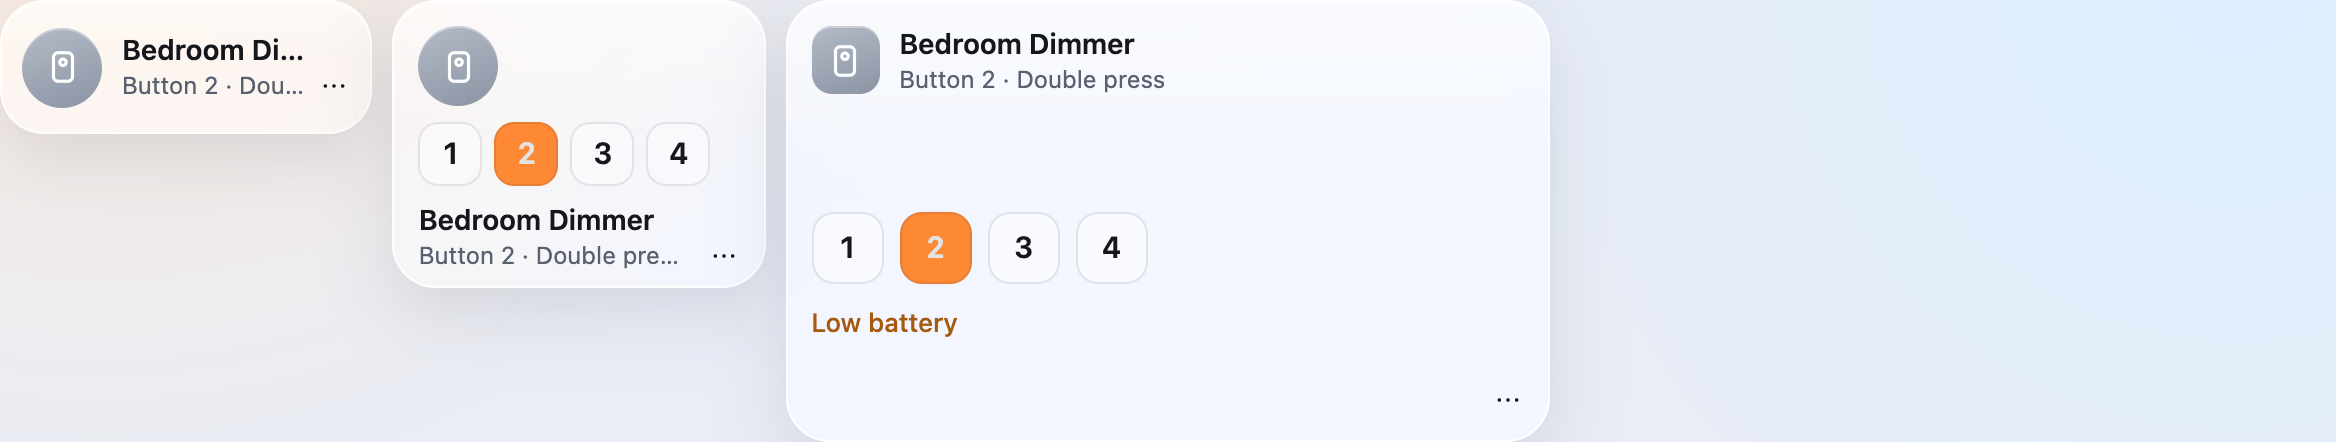
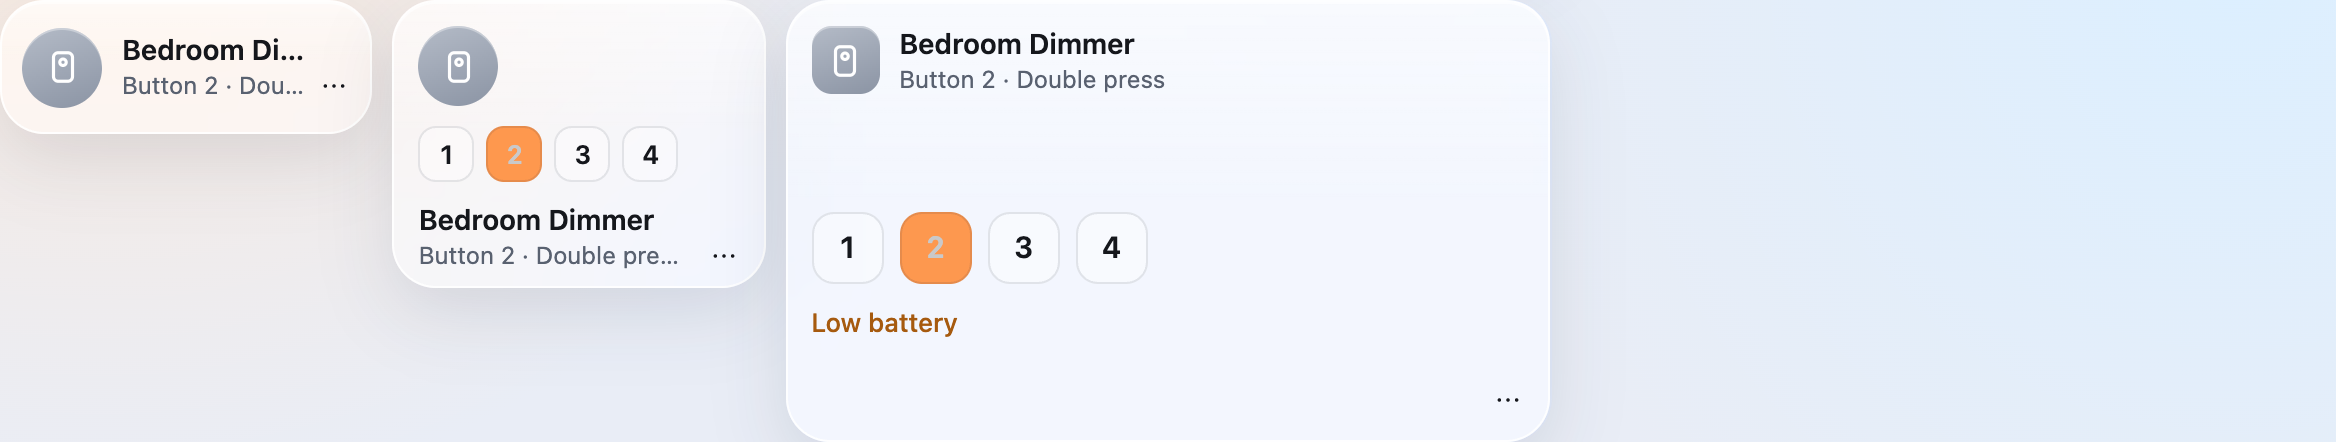
Review fixes: bounded re-reads, phone tabs that scroll, a remote's middle row
The Hue and DIRIGERA pages read the accessories again at most five times for a
device the plugin has not published, instead of on every poll when one never
comes (an environment sensor that measures nothing, a failed add). On a phone
the plugin tabs share the width and scroll sideways when a translation is too
long, rather than be cut. A tall remote tile shows its keys in a middle row of
its own, hidden while the wall is edited, sized to fit above the name, and
only for up to four buttons; more keep the count.

Changed region(s): [[0.1875, 0.2647, 0.3125, 0.4412], [0.375, 0.4706, 0.4375, 0.6471]]

diff --git a/Sources/HomeswiftUI/WebAssets.swift b/Sources/HomeswiftUI/WebAssets.swift
@@ -18445,9 +18445,9 @@ button.busy::after {
   background: var(--material-thin); border: 1px solid var(--line); font-weight: 600; font-variant-numeric: tabular-nums;
   transition: background-color 600ms var(--ease-out), color 600ms var(--ease-out), transform 300ms var(--ease-out);
 }
-/* On a medium tile the keys sit between its icon and its name, above the tile's tap target like its other lines. */
-.widget-summary > .remote-key-row { position: relative; z-index: 1; pointer-events: none; gap: 6px; }
-.widget-summary > .remote-key-row .remote-key { min-width: 32px; height: 32px; border-radius: 10px; }
+/* On a tall tile the keys sit between its icon and its name (widgets.js `middle`). */
+.w-middle .remote-key-row { gap: 6px; flex-wrap: nowrap; }
+.w-middle .remote-key { min-width: 28px; height: 28px; padding: 0 8px; border-radius: 9px; font-size: .8125rem; }
 .remote-key.pressed { background: var(--accent); color: var(--accent-text); transform: scale(0.94); transition-duration: 60ms; }
 .widget .tile.pressed { transform: scale(0.94); transition: transform 60ms var(--ease-out); }
 @media (prefers-reduced-motion: reduce) { .remote-key.pressed, .widget .tile.pressed { transform: none; } }
@@ -18997,6 +18997,8 @@ input[type=search]::-webkit-search-decoration { -webkit-appearance: none; }
 .widget .w-hit:hover, .widget .w-hit:active:not(:disabled) { transform: none; }
 .w-hit:focus-visible { outline: 2px solid var(--accent); outline-offset: -2px; }
 .w-top, .w-bottom { position: relative; z-index: 1; display: flex; gap: 8px; min-width: 0; pointer-events: none; }
+/* A tall tile's middle line (a remote's keys), above the tap target like the others and shown only by it. */
+.w-middle { position: relative; z-index: 1; flex: none; min-width: 0; padding: 2px 0; overflow: hidden; pointer-events: none; }
 .w-top { align-items: flex-start; justify-content: space-between; }
 .w-bottom { align-items: flex-end; }
 .w-bottom .menu-button { pointer-events: auto; margin: 0 -6px -6px 0; flex: none; }
@@ -21174,7 +21176,7 @@ select option:disabled { color: var(--muted); }
 .wall.editing > .widget.size-small .edit-bar { bottom: 3px; padding: 2px; }
 .wall.editing > .widget.size-small .edit-bar button { height: 22px; }
 .wall.editing > .widget.size-small .resize-handle { bottom: 3px; }
-.wall.editing > .widget-summary > .w-bottom { visibility: hidden; }
+.wall.editing > .widget-summary > .w-bottom, .wall.editing > .widget-summary > .w-middle { visibility: hidden; }
 .wall.editing > .widget-summary > .w-top { position: absolute; left: 12px; right: 12px; top: 50%; transform: translateY(-50%); }
 .wall.editing > .widget.size-small > .w-top { visibility: hidden; }
 .wall.editing > .widget:not(.widget-summary) > .w-head { visibility: hidden; }
@@ -21286,10 +21288,12 @@ select option:disabled { color: var(--muted); }
    its address, scene tiles painted with their palette or a picture, the transition's speed scale and the save bar.
    plugin.js has their pieces (tabs, bridgePairing, scenePictures, textStyle, speedScale). */
 .main-tabs { margin: 18px 0 14px; }
-/* On a phone the tabs share the width, so four of them fit; a long name ends in an ellipsis. */
+/* On a phone the tabs share the width, so four of them fit; longer names (a translation) scroll the bar sideways
+   rather than be cut. */
 @media (max-width: 600px) {
-  .main-tabs { display: flex; width: 100%; }
-  .main-tabs > button { flex: 1 1 0; min-width: 0; padding: 5px 6px; justify-content: center; gap: 5px; overflow: hidden; text-overflow: ellipsis; }
+  .main-tabs { display: flex; width: 100%; overflow-x: auto; scrollbar-width: none; }
+  .main-tabs::-webkit-scrollbar { display: none; }
+  .main-tabs > button { flex: 1 0 auto; padding: 5px 8px; justify-content: center; gap: 5px; }
 }
 .tab-pane { animation: fade var(--normal) var(--ease-out); }
 
@@ -23270,8 +23274,9 @@ self.addEventListener("notificationclick", (event) => {
           if (isOn(low)) return [t("Low battery"), "warn"];
           return [buttons.length > 1 ? t("Press a button to see it here") : t("Press it to see it here")];
         },
-        // A tall tile shows the keys between its icon and its name, in place of the count they make plain.
-        middle: size === "small" ? el("div", { class: "remote-key-row", "aria-hidden": "true" }, keys) : null,
+        // A tall tile shows the keys between its icon and its name, in place of the count they make plain; more than
+        // fit on one line keep the count.
+        middle: size === "small" && buttons.length <= 4 ? el("div", { class: "remote-key-row", "aria-hidden": "true" }, keys) : null,
         body: size === "small" ? [] : [el("div", { class: "remote-keys" }, el("div", { class: "remote-key-row", "aria-hidden": "true" }, keys), battery)],
       };
     },
@@ -23598,7 +23603,7 @@ self.addEventListener("notificationclick", (event) => {
         hit.addEventListener("touchmove", (event) => { if (armed) event.preventDefault(); }, { passive: false });
       }
       const middle = size === "medium" ? built.middle : null;
-      node.append(shade ?? "", hit, el("div", { class: "w-top" }, glyph, hero), middle ?? "", el("div", { class: "w-bottom" }, who, menu));
+      node.append(shade ?? "", hit, el("div", { class: "w-top" }, glyph, hero), middle ? el("div", { class: "w-middle" }, middle) : "", el("div", { class: "w-bottom" }, who, menu));
       ctx.watch(() => {
         const on = built.on ? built.on() : false;
         node.classList.toggle("on", on);

diff --git a/Sources/HomeswiftUI/Web/style.css b/Sources/HomeswiftUI/Web/style.css
@@ -235,9 +235,9 @@ button.busy::after {
   background: var(--material-thin); border: 1px solid var(--line); font-weight: 600; font-variant-numeric: tabular-nums;
   transition: background-color 600ms var(--ease-out), color 600ms var(--ease-out), transform 300ms var(--ease-out);
 }
-/* On a medium tile the keys sit between its icon and its name, above the tile's tap target like its other lines. */
-.widget-summary > .remote-key-row { position: relative; z-index: 1; pointer-events: none; gap: 6px; }
-.widget-summary > .remote-key-row .remote-key { min-width: 32px; height: 32px; border-radius: 10px; }
+/* On a tall tile the keys sit between its icon and its name (widgets.js `middle`). */
+.w-middle .remote-key-row { gap: 6px; flex-wrap: nowrap; }
+.w-middle .remote-key { min-width: 28px; height: 28px; padding: 0 8px; border-radius: 9px; font-size: .8125rem; }
 .remote-key.pressed { background: var(--accent); color: var(--accent-text); transform: scale(0.94); transition-duration: 60ms; }
 .widget .tile.pressed { transform: scale(0.94); transition: transform 60ms var(--ease-out); }
 @media (prefers-reduced-motion: reduce) { .remote-key.pressed, .widget .tile.pressed { transform: none; } }
@@ -787,6 +787,8 @@ input[type=search]::-webkit-search-decoration { -webkit-appearance: none; }
 .widget .w-hit:hover, .widget .w-hit:active:not(:disabled) { transform: none; }
 .w-hit:focus-visible { outline: 2px solid var(--accent); outline-offset: -2px; }
 .w-top, .w-bottom { position: relative; z-index: 1; display: flex; gap: 8px; min-width: 0; pointer-events: none; }
+/* A tall tile's middle line (a remote's keys), above the tap target like the others and shown only by it. */
+.w-middle { position: relative; z-index: 1; flex: none; min-width: 0; padding: 2px 0; overflow: hidden; pointer-events: none; }
 .w-top { align-items: flex-start; justify-content: space-between; }
 .w-bottom { align-items: flex-end; }
 .w-bottom .menu-button { pointer-events: auto; margin: 0 -6px -6px 0; flex: none; }
@@ -2964,7 +2966,7 @@ select option:disabled { color: var(--muted); }
 .wall.editing > .widget.size-small .edit-bar { bottom: 3px; padding: 2px; }
 .wall.editing > .widget.size-small .edit-bar button { height: 22px; }
 .wall.editing > .widget.size-small .resize-handle { bottom: 3px; }
-.wall.editing > .widget-summary > .w-bottom { visibility: hidden; }
+.wall.editing > .widget-summary > .w-bottom, .wall.editing > .widget-summary > .w-middle { visibility: hidden; }
 .wall.editing > .widget-summary > .w-top { position: absolute; left: 12px; right: 12px; top: 50%; transform: translateY(-50%); }
 .wall.editing > .widget.size-small > .w-top { visibility: hidden; }
 .wall.editing > .widget:not(.widget-summary) > .w-head { visibility: hidden; }
@@ -3076,10 +3078,12 @@ select option:disabled { color: var(--muted); }
    its address, scene tiles painted with their palette or a picture, the transition's speed scale and the save bar.
    plugin.js has their pieces (tabs, bridgePairing, scenePictures, textStyle, speedScale). */
 .main-tabs { margin: 18px 0 14px; }
-/* On a phone the tabs share the width, so four of them fit; a long name ends in an ellipsis. */
+/* On a phone the tabs share the width, so four of them fit; longer names (a translation) scroll the bar sideways
+   rather than be cut. */
 @media (max-width: 600px) {
-  .main-tabs { display: flex; width: 100%; }
-  .main-tabs > button { flex: 1 1 0; min-width: 0; padding: 5px 6px; justify-content: center; gap: 5px; overflow: hidden; text-overflow: ellipsis; }
+  .main-tabs { display: flex; width: 100%; overflow-x: auto; scrollbar-width: none; }
+  .main-tabs::-webkit-scrollbar { display: none; }
+  .main-tabs > button { flex: 1 0 auto; padding: 5px 8px; justify-content: center; gap: 5px; }
 }
 .tab-pane { animation: fade var(--normal) var(--ease-out); }
 

diff --git a/site/design/runtime/style.css b/site/design/runtime/style.css
@@ -235,9 +235,9 @@ button.busy::after {
   background: var(--material-thin); border: 1px solid var(--line); font-weight: 600; font-variant-numeric: tabular-nums;
   transition: background-color 600ms var(--ease-out), color 600ms var(--ease-out), transform 300ms var(--ease-out);
 }
-/* On a medium tile the keys sit between its icon and its name, above the tile's tap target like its other lines. */
-.widget-summary > .remote-key-row { position: relative; z-index: 1; pointer-events: none; gap: 6px; }
-.widget-summary > .remote-key-row .remote-key { min-width: 32px; height: 32px; border-radius: 10px; }
+/* On a tall tile the keys sit between its icon and its name (widgets.js `middle`). */
+.w-middle .remote-key-row { gap: 6px; flex-wrap: nowrap; }
+.w-middle .remote-key { min-width: 28px; height: 28px; padding: 0 8px; border-radius: 9px; font-size: .8125rem; }
 .remote-key.pressed { background: var(--accent); color: var(--accent-text); transform: scale(0.94); transition-duration: 60ms; }
 .widget .tile.pressed { transform: scale(0.94); transition: transform 60ms var(--ease-out); }
 @media (prefers-reduced-motion: reduce) { .remote-key.pressed, .widget .tile.pressed { transform: none; } }
@@ -787,6 +787,8 @@ input[type=search]::-webkit-search-decoration { -webkit-appearance: none; }
 .widget .w-hit:hover, .widget .w-hit:active:not(:disabled) { transform: none; }
 .w-hit:focus-visible { outline: 2px solid var(--accent); outline-offset: -2px; }
 .w-top, .w-bottom { position: relative; z-index: 1; display: flex; gap: 8px; min-width: 0; pointer-events: none; }
+/* A tall tile's middle line (a remote's keys), above the tap target like the others and shown only by it. */
+.w-middle { position: relative; z-index: 1; flex: none; min-width: 0; padding: 2px 0; overflow: hidden; pointer-events: none; }
 .w-top { align-items: flex-start; justify-content: space-between; }
 .w-bottom { align-items: flex-end; }
 .w-bottom .menu-button { pointer-events: auto; margin: 0 -6px -6px 0; flex: none; }
@@ -2964,7 +2966,7 @@ select option:disabled { color: var(--muted); }
 .wall.editing > .widget.size-small .edit-bar { bottom: 3px; padding: 2px; }
 .wall.editing > .widget.size-small .edit-bar button { height: 22px; }
 .wall.editing > .widget.size-small .resize-handle { bottom: 3px; }
-.wall.editing > .widget-summary > .w-bottom { visibility: hidden; }
+.wall.editing > .widget-summary > .w-bottom, .wall.editing > .widget-summary > .w-middle { visibility: hidden; }
 .wall.editing > .widget-summary > .w-top { position: absolute; left: 12px; right: 12px; top: 50%; transform: translateY(-50%); }
 .wall.editing > .widget.size-small > .w-top { visibility: hidden; }
 .wall.editing > .widget:not(.widget-summary) > .w-head { visibility: hidden; }
@@ -3076,10 +3078,12 @@ select option:disabled { color: var(--muted); }
    its address, scene tiles painted with their palette or a picture, the transition's speed scale and the save bar.
    plugin.js has their pieces (tabs, bridgePairing, scenePictures, textStyle, speedScale). */
 .main-tabs { margin: 18px 0 14px; }
-/* On a phone the tabs share the width, so four of them fit; a long name ends in an ellipsis. */
+/* On a phone the tabs share the width, so four of them fit; longer names (a translation) scroll the bar sideways
+   rather than be cut. */
 @media (max-width: 600px) {
-  .main-tabs { display: flex; width: 100%; }
-  .main-tabs > button { flex: 1 1 0; min-width: 0; padding: 5px 6px; justify-content: center; gap: 5px; overflow: hidden; text-overflow: ellipsis; }
+  .main-tabs { display: flex; width: 100%; overflow-x: auto; scrollbar-width: none; }
+  .main-tabs::-webkit-scrollbar { display: none; }
+  .main-tabs > button { flex: 1 0 auto; padding: 5px 8px; justify-content: center; gap: 5px; }
 }
 .tab-pane { animation: fade var(--normal) var(--ease-out); }
 

diff --git a/Plugins/PhilipsHue/Sources/WebFiles.swift b/Plugins/PhilipsHue/Sources/WebFiles.swift
@@ -96,19 +96,22 @@ h2 { margin: 0 0 10px; }
   let accessories = [];
   let sensorAccessories = [];
   let shapeKey = "";
+  // Reads made for a light or sensor not yet published: a few, since one the plugin cannot add would never come.
+  let missingReads = 0;
   async function loadAccessories() {
     const all = (await homeswift.api("/api/accessories")).filter((accessory) => accessory.platform === "PhilipsHue" && accessory.platformName === homeswift.name);
     accessories = all.filter((accessory) => !accessory.id.startsWith("PhilipsHue:scenes:") && !accessory.id.startsWith("PhilipsHue:device:"));
     sensorAccessories = all.filter((accessory) => accessory.id.startsWith("PhilipsHue:device:"));
   }
 
-  /// Reads the accessories again when the lights or sensors the Home app has changed, or while fewer are published
-  /// than the bridge lists (the page opened before the plugin had added them all).
+  /// Reads the accessories again when the lights or sensors the Home app has changed, or a few times while fewer are
+  /// published than the bridge lists (the page opened before the plugin had added them all).
   async function loadIfChanged() {
     const shown = (list) => list.filter((item) => !item.hidden);
     const key = [...shown(lights), ...shown(sensors)].map((item) => item.id).sort().join(",");
     const missing = accessories.length < shown(lights).length || (status.sensorsOn !== false && sensorAccessories.length < shown(sensors).length);
-    if (key === shapeKey && !missing) return;
+    if (key !== shapeKey) missingReads = 0;
+    else if (!missing || missingReads++ >= 5) return;
     shapeKey = key;
     await loadAccessories().catch(() => {});
   }

diff --git a/Plugins/PhilipsHue/Web/app.js b/Plugins/PhilipsHue/Web/app.js
@@ -54,19 +54,22 @@
   let accessories = [];
   let sensorAccessories = [];
   let shapeKey = "";
+  // Reads made for a light or sensor not yet published: a few, since one the plugin cannot add would never come.
+  let missingReads = 0;
   async function loadAccessories() {
     const all = (await homeswift.api("/api/accessories")).filter((accessory) => accessory.platform === "PhilipsHue" && accessory.platformName === homeswift.name);
     accessories = all.filter((accessory) => !accessory.id.startsWith("PhilipsHue:scenes:") && !accessory.id.startsWith("PhilipsHue:device:"));
     sensorAccessories = all.filter((accessory) => accessory.id.startsWith("PhilipsHue:device:"));
   }
 
-  /// Reads the accessories again when the lights or sensors the Home app has changed, or while fewer are published
-  /// than the bridge lists (the page opened before the plugin had added them all).
+  /// Reads the accessories again when the lights or sensors the Home app has changed, or a few times while fewer are
+  /// published than the bridge lists (the page opened before the plugin had added them all).
   async function loadIfChanged() {
     const shown = (list) => list.filter((item) => !item.hidden);
     const key = [...shown(lights), ...shown(sensors)].map((item) => item.id).sort().join(",");
     const missing = accessories.length < shown(lights).length || (status.sensorsOn !== false && sensorAccessories.length < shown(sensors).length);
-    if (key === shapeKey && !missing) return;
+    if (key !== shapeKey) missingReads = 0;
+    else if (!missing || missingReads++ >= 5) return;
     shapeKey = key;
     await loadAccessories().catch(() => {});
   }

diff --git a/Plugins/Dirigera/Sources/WebFiles.swift b/Plugins/Dirigera/Sources/WebFiles.swift
@@ -117,6 +117,8 @@ h2 { margin: 0 0 10px; }
   /// The plugin's accessories (not its scene switches), read again when the set of devices changes.
   let accessories = [];
   let shapeKey = "";
+  // Reads made for a group not yet published: a few, since a group the plugin cannot add would never come.
+  let missingReads = 0;
   async function loadAccessories() {
     const all = await homeswift.api("/api/accessories");
     accessories = all.filter((accessory) => accessory.platform === "Dirigera" && accessory.platformName === homeswift.name && !accessory.id.startsWith("Dirigera:scenes:"));
@@ -156,11 +158,12 @@ h2 { margin: 0 0 10px; }
     const paired = hubs.some((hub) => hub.paired);
     deviceFinder.show(paired && accessories.length > 0);
     if (!paired) return empty(t("Pair a hub to see its devices."));
-    // Read again when the devices change, or while fewer accessories are published than the hub lists groups (the page
-    // opened before the plugin had added them all).
+    // Read again when the devices change, or a few times while fewer accessories are published than the hub lists
+    // groups (the page opened before the plugin had added them all).
     const groups = [...new Set(devices.filter((item) => !item.hidden).map((item) => item.group))];
     const key = groups.sort().join(",");
-    if (key !== shapeKey || accessories.length < groups.length) {
+    if (key !== shapeKey) missingReads = 0;
+    if (key !== shapeKey || (accessories.length < groups.length && missingReads++ < 5)) {
       shapeKey = key;
       await loadAccessories().catch(() => {});
     }

diff --git a/Plugins/Dirigera/Web/app.js b/Plugins/Dirigera/Web/app.js
@@ -81,6 +81,8 @@
   /// The plugin's accessories (not its scene switches), read again when the set of devices changes.
   let accessories = [];
   let shapeKey = "";
+  // Reads made for a group not yet published: a few, since a group the plugin cannot add would never come.
+  let missingReads = 0;
   async function loadAccessories() {
     const all = await homeswift.api("/api/accessories");
     accessories = all.filter((accessory) => accessory.platform === "Dirigera" && accessory.platformName === homeswift.name && !accessory.id.startsWith("Dirigera:scenes:"));
@@ -120,11 +122,12 @@
     const paired = hubs.some((hub) => hub.paired);
     deviceFinder.show(paired && accessories.length > 0);
     if (!paired) return empty(t("Pair a hub to see its devices."));
-    // Read again when the devices change, or while fewer accessories are published than the hub lists groups (the page
-    // opened before the plugin had added them all).
+    // Read again when the devices change, or a few times while fewer accessories are published than the hub lists
+    // groups (the page opened before the plugin had added them all).
     const groups = [...new Set(devices.filter((item) => !item.hidden).map((item) => item.group))];
     const key = groups.sort().join(",");
-    if (key !== shapeKey || accessories.length < groups.length) {
+    if (key !== shapeKey) missingReads = 0;
+    if (key !== shapeKey || (accessories.length < groups.length && missingReads++ < 5)) {
       shapeKey = key;
       await loadAccessories().catch(() => {});
     }

diff --git a/Sources/HomeswiftUI/Web/widgets.js b/Sources/HomeswiftUI/Web/widgets.js
@@ -1625,8 +1625,9 @@
           if (isOn(low)) return [t("Low battery"), "warn"];
           return [buttons.length > 1 ? t("Press a button to see it here") : t("Press it to see it here")];
         },
-        // A tall tile shows the keys between its icon and its name, in place of the count they make plain.
-        middle: size === "small" ? el("div", { class: "remote-key-row", "aria-hidden": "true" }, keys) : null,
+        // A tall tile shows the keys between its icon and its name, in place of the count they make plain; more than
+        // fit on one line keep the count.
+        middle: size === "small" && buttons.length <= 4 ? el("div", { class: "remote-key-row", "aria-hidden": "true" }, keys) : null,
         body: size === "small" ? [] : [el("div", { class: "remote-keys" }, el("div", { class: "remote-key-row", "aria-hidden": "true" }, keys), battery)],
       };
     },
@@ -1953,7 +1954,7 @@
         hit.addEventListener("touchmove", (event) => { if (armed) event.preventDefault(); }, { passive: false });
       }
       const middle = size === "medium" ? built.middle : null;
-      node.append(shade ?? "", hit, el("div", { class: "w-top" }, glyph, hero), middle ?? "", el("div", { class: "w-bottom" }, who, menu));
+      node.append(shade ?? "", hit, el("div", { class: "w-top" }, glyph, hero), middle ? el("div", { class: "w-middle" }, middle) : "", el("div", { class: "w-bottom" }, who, menu));
       ctx.watch(() => {
         const on = built.on ? built.on() : false;
         node.classList.toggle("on", on);

diff --git a/site/design/runtime/widgets.js b/site/design/runtime/widgets.js
@@ -1625,8 +1625,9 @@
           if (isOn(low)) return [t("Low battery"), "warn"];
           return [buttons.length > 1 ? t("Press a button to see it here") : t("Press it to see it here")];
         },
-        // A tall tile shows the keys between its icon and its name, in place of the count they make plain.
-        middle: size === "small" ? el("div", { class: "remote-key-row", "aria-hidden": "true" }, keys) : null,
+        // A tall tile shows the keys between its icon and its name, in place of the count they make plain; more than
+        // fit on one line keep the count.
+        middle: size === "small" && buttons.length <= 4 ? el("div", { class: "remote-key-row", "aria-hidden": "true" }, keys) : null,
         body: size === "small" ? [] : [el("div", { class: "remote-keys" }, el("div", { class: "remote-key-row", "aria-hidden": "true" }, keys), battery)],
       };
     },
@@ -1953,7 +1954,7 @@
         hit.addEventListener("touchmove", (event) => { if (armed) event.preventDefault(); }, { passive: false });
       }
       const middle = size === "medium" ? built.middle : null;
-      node.append(shade ?? "", hit, el("div", { class: "w-top" }, glyph, hero), middle ?? "", el("div", { class: "w-bottom" }, who, menu));
+      node.append(shade ?? "", hit, el("div", { class: "w-top" }, glyph, hero), middle ? el("div", { class: "w-middle" }, middle) : "", el("div", { class: "w-bottom" }, who, menu));
       ctx.watch(() => {
         const on = built.on ? built.on() : false;
         node.classList.toggle("on", on);
